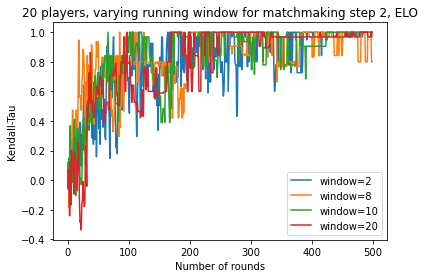
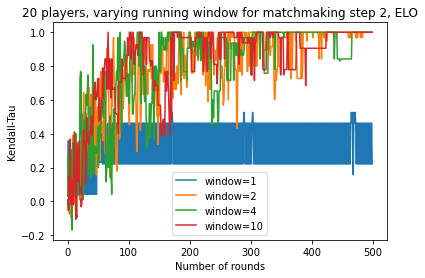
Update scenario eval 2

diff --git a/scenario_evaluation.md b/scenario_evaluation.md
@@ -25,9 +25,9 @@ In this plot, the moving average of Kendall-Tau score is set to 1, and we only r
 ![scenario1kendalltauconvergence](img/scenario1kendalltauconvergence.png)
 
 
-## Demonstration of the effect of running window in matchmaking
+## Investigating the effect of running window in matchmaking
 
-In the design of the matchmaking, we want to match players of close skill to each other. This is to test effect of matchmaking step 2 running window size. Kendall-Tau running average is set to 1.
+In the design of the matchmaking, we want to match players of close skill to each other. This is to test effect of matchmaking step 2 running window size. Kendall-Tau running average is set to 1. For window size=1, this reduces to no shuffling, players are matched against the closest skill.
 
 ![scenario1poorconvergence](img/scenario1runningwindowconvergence.png)
 
